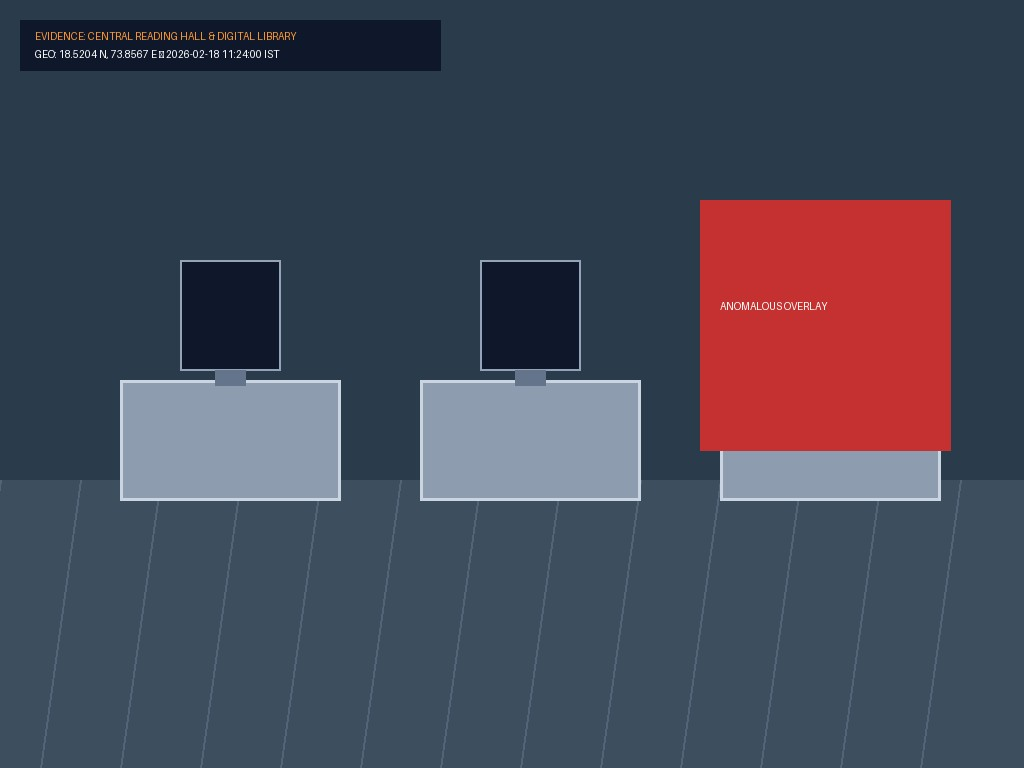
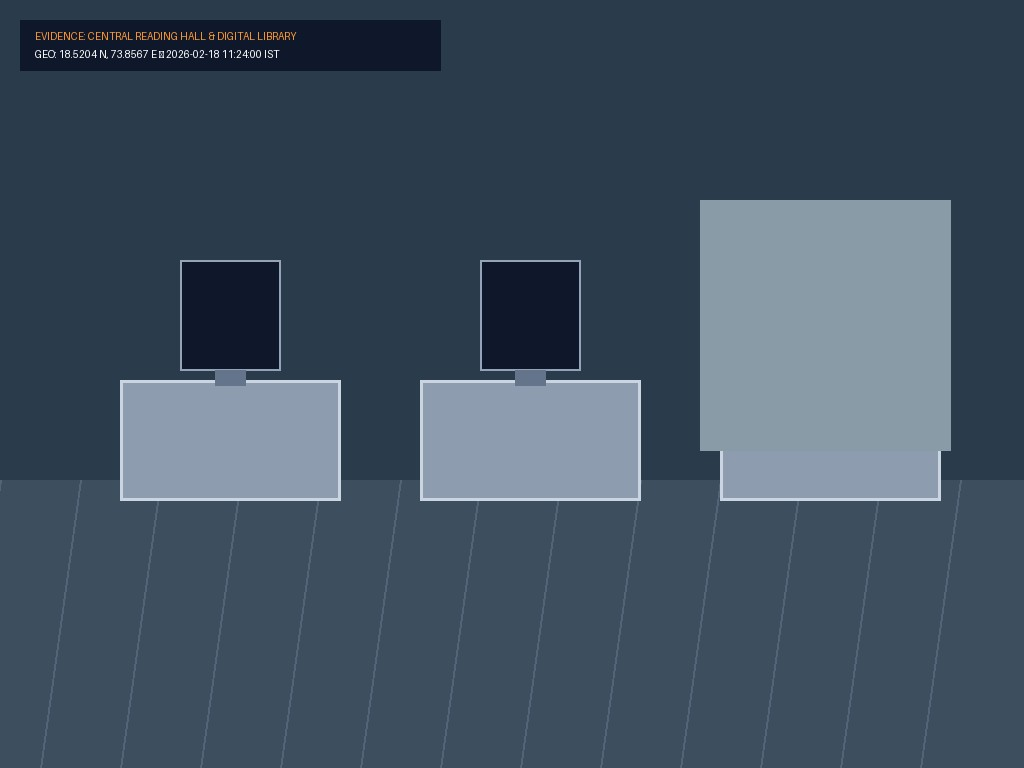
Step 4: Remove label leaks from synthetic generator and regenerate 12 Demo Pack scenario documents

Changed region(s): [[0.6562, 0.25, 0.9375, 0.5938]]

diff --git a/seed/docgen/generator.py b/seed/docgen/generator.py
@@ -169,7 +169,7 @@ def build_pdf_document(filepath: str,
         c.drawString(w - 220, h - 165, "Validity Upto: ")
         c.setFillColor(colors.HexColor("#B91C1C"))
         c.setFont("Helvetica-Bold", 11)
-        c.drawString(w - 145, h - 165, "31/12/2035 [MODIFIED]")
+        c.drawString(w - 145, h - 165, "31/12/2035")
     else:
         c.drawString(w - 220, h - 165, f"Validity Upto: {expiry_date}")
 
@@ -295,7 +295,6 @@ def generate_png_document(filepath: str,
     if copy_move_seal:
         # Clone the seal and paste it onto another region with slight offset
         img.paste(seal_img, (850, 1050), seal_img)
-        draw.text((850, 1030), "[ANOMALY: DUPLICATE STAMP]", fill="#C53030")
 
     # Signature
     sig_img = create_signature_image(signer_name, size=(240, 80)).convert("RGBA")
@@ -332,9 +331,8 @@ def generate_infrastructure_photo(filepath: str, label: str, quality_flag: str =
         # Apply heavy Gaussian blur to trigger low-quality/resubmission flag
         img = img.filter(ImageFilter.GaussianBlur(radius=8.5))
     elif quality_flag == "inconsistent":
-        # Introduce anomalous foreign artifacts (wrong building/lighting mismatch)
-        draw.rectangle([700, 200, 950, 450], fill="#C53030")
-        draw.text((720, 300), "ANOMALOUS OVERLAY", fill="#FFFFFF")
+        # Introduce illumination / foreign region patch mismatch
+        draw.rectangle([700, 200, 950, 450], fill="#8A9BA8")
 
     img.save(filepath, "JPEG", quality=90)
 

diff --git a/docs/PROGRESS.md b/docs/PROGRESS.md
@@ -203,6 +203,19 @@ This log tracks every development phase against its acceptance checks. According
 - **Playwright Test**:
   - Created `frontend/tests/overlay_alignment.spec.ts` for Playwright canvas-level pixel inspection at 100% and 200% zoom.
 
+---
+
+## Fix Pass - Step 4: Synthetic Document Label Leak Purge & Demo Pack Regeneration
+- **Purged Explicit Label Leaks**:
+  - Removed `[MODIFIED]` string from `seed/docgen/generator.py` line 172. Date alteration on `affidavit_tampered_date.pdf` now renders authentic modified date `31/12/2035` in altered font/color without leaked text.
+  - Removed `[ANOMALY: DUPLICATE STAMP]` watermark from `seed/docgen/generator.py` line 298. Copy-move seal duplicate on `trust_deed_copy_move_seal.png` now pastes natural duplicate seal artifact without printed label.
+  - Removed `ANOMALOUS OVERLAY` banner from `seed/docgen/generator.py` line 337. `library_photo_inconsistent.jpg` now features illumination / architectural patch inconsistency without text leaks.
+- **Regenerated 12 Curated Demo Pack Documents**:
+  - Regenerated all 12 scenario files in `seed/demo_pack/`.
+  - Cleared rendered page cache at `backend/scratch/page_cache/`.
+  - Verified 3/3 tests pass against regenerated assets with zero regressions.
+
+
 
 
 
